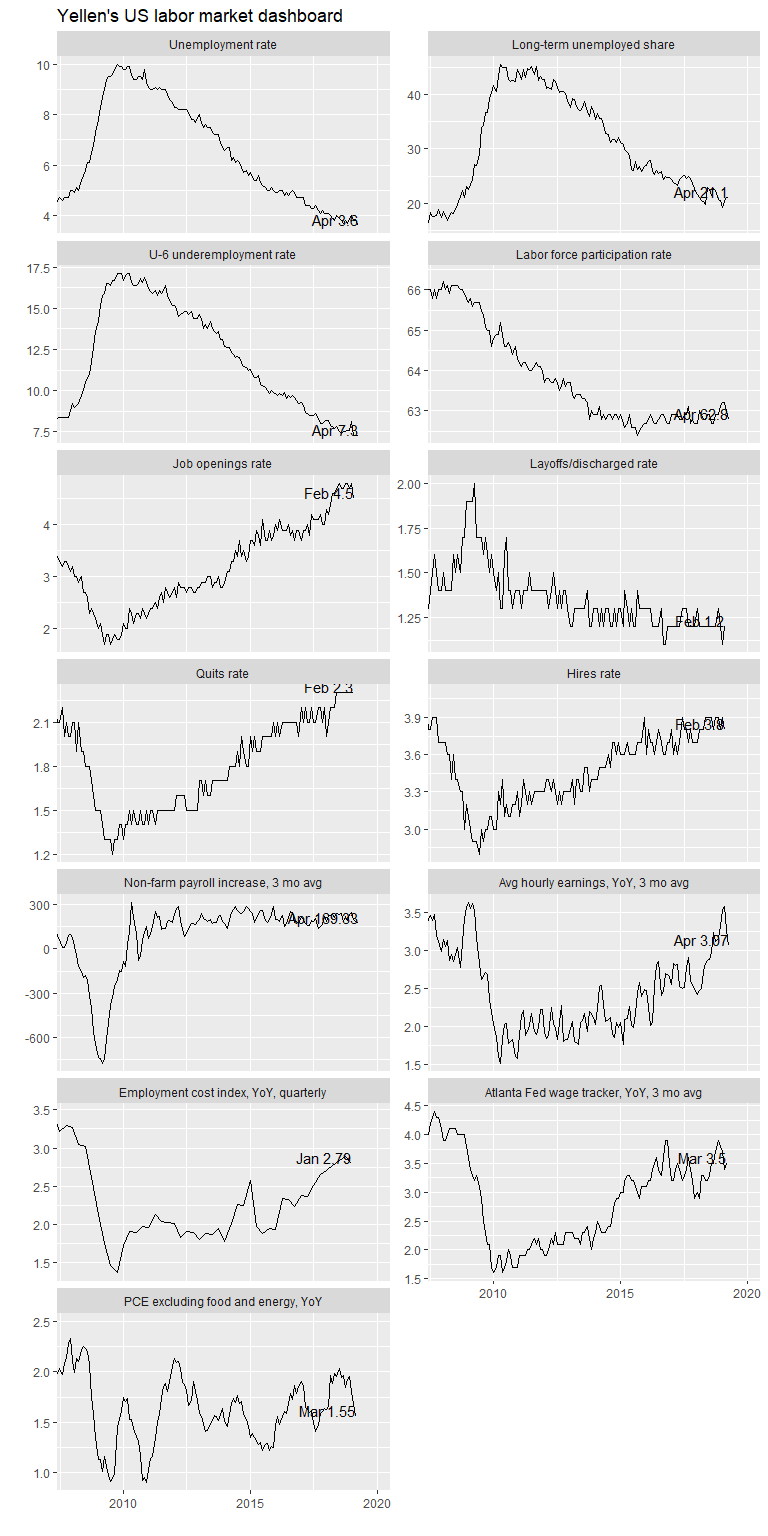
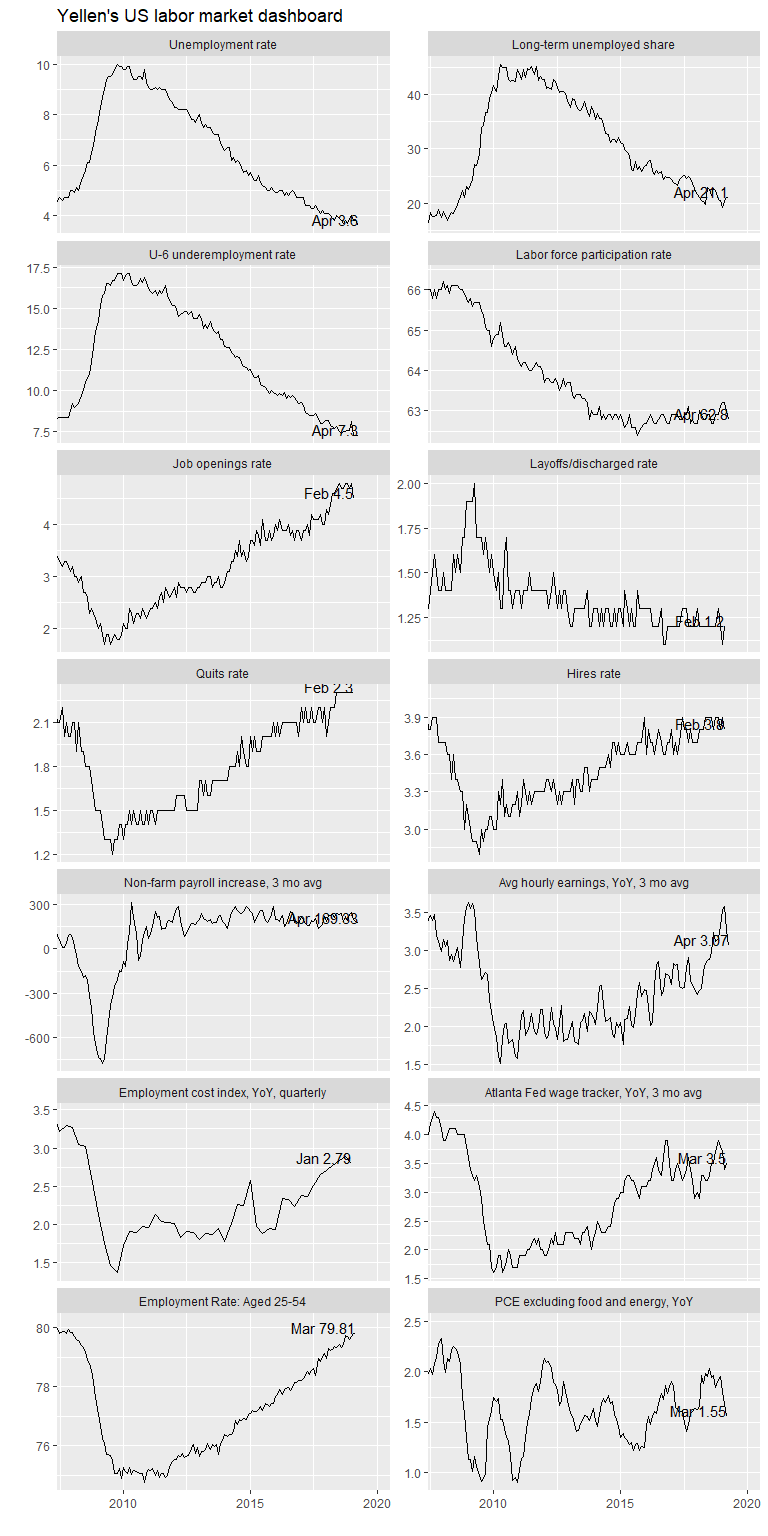
add prime age employment rate

diff --git a/README.md b/README.md
@@ -146,6 +146,7 @@ yellen_labor_mkt_symbols <- c(
   "CEU0500000003", # Average hourly earnings, total private
   "ECIALLCIV", # Employment cost index, all civilians, quaterly
   "CIVPART", # Labor force participation rate
+  "LREM25TTUSM156S", # Employment Rate: Aged 25-54: All Persons
   "PCEPILFE" # PCE excluding food and energy
   ) 
 ```
@@ -263,7 +264,7 @@ labor_mkt$symbol <- factor(labor_mkt$symbol,
                            levels = c("UNRATE", "LNS13025703", "U6RATE", "CIVPART",
                                       "JTSJOR", "JTSLDR", "JTSQUR", "JTSHIR",
                                       "PAYEMS", "CEU0500000003", "ECIALLCIV", "WAGETR",
-                                      "PCEPILFE"))
+                                      "LREM25TTUSM156S", "PCEPILFE"))
 ```
 
 I recode symbol to make them more readable in the plot.
@@ -284,6 +285,7 @@ labor_mkt <- labor_mkt %>%
                              "Avg hourly earnings, YoY, 3 mo avg" = "CEU0500000003",
                              "Employment cost index, YoY, quarterly" = "ECIALLCIV",
                              "Atlanta Fed wage tracker, YoY, 3 mo avg" = "WAGETR",
+                             "Employment Rate: Aged 25-54" = "LREM25TTUSM156S",
                              "PCE excluding food and energy, YoY" = "PCEPILFE"
                              )
            )
